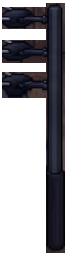
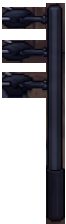
Secret Map: barn apron shortened to the game's floor line so things outside the ring don't draw over the skirt; posts recut
Claude-Session: https://claude.ai/code/session_01Vt6RynQ8ccLExMRf8m5kQm

diff --git a/src/03_assets.js b/src/03_assets.js
@@ -5,7 +5,7 @@ const POSTS={"L": {"src": "__ASSET(maps/post_L.png)__", "x": 28.6416, "y": 82.94
 const PANO=new Image();PANO.src="__ASSET(maps/bmfranch_full.webp)__";
 // the Secret Map: inside the barn. Same ring layout, its own front posts
 const SECRET=new Image();SECRET.src="__ASSET(maps/secret_full.webp)__";
-const SPOSTS={L:{src:"__ASSET(maps/secret_post_L.png)__",x:30,y:76,w:28,h:126.5},R:{src:"__ASSET(maps/secret_post_R.png)__",x:251,y:76,w:33,h:126.5}};for(const k in SPOSTS){SPOSTS[k].img=new Image();SPOSTS[k].img.src=SPOSTS[k].src;}const ENT=new Image();ENT.src="__ASSET(maps/bmfranch_entrance.webp)__";
+const SPOSTS={L:{src:"__ASSET(maps/secret_post_L.png)__",x:30,y:76,w:28,h:112},R:{src:"__ASSET(maps/secret_post_R.png)__",x:251,y:76,w:33,h:112}};for(const k in SPOSTS){SPOSTS[k].img=new Image();SPOSTS[k].img.src=SPOSTS[k].src;}const ENT=new Image();ENT.src="__ASSET(maps/bmfranch_entrance.webp)__";
 const HDKEYS=Object.keys(HD).filter(k=>k!=='arena');const HDIMG={};for(const k of HDKEYS){HDIMG[k]=new Image();HDIMG[k].src=HD[k].src;}
 let hdWait=0;function hdReady(){if(hdWait>600)return true;return ARENA_IMG.complete&&ARENA_IMG.naturalWidth&&PANO.complete&&PANO.naturalWidth&&ENT.complete&&ENT.naturalWidth&&HDKEYS.every(k=>HDIMG[k].complete&&HDIMG[k].naturalWidth);}
 function buildHD(k){const im=HDIMG[k],d=HD[k],set={};if(!im.complete||!im.naturalWidth)return;try{d.names.forEach((n,i)=>{const c=mk(320,224);const g=c.getContext('2d');g.drawImage(im,(i%d.cols)*320,Math.floor(i/d.cols)*224,320,224,0,0,320,224);set[n]=c;
